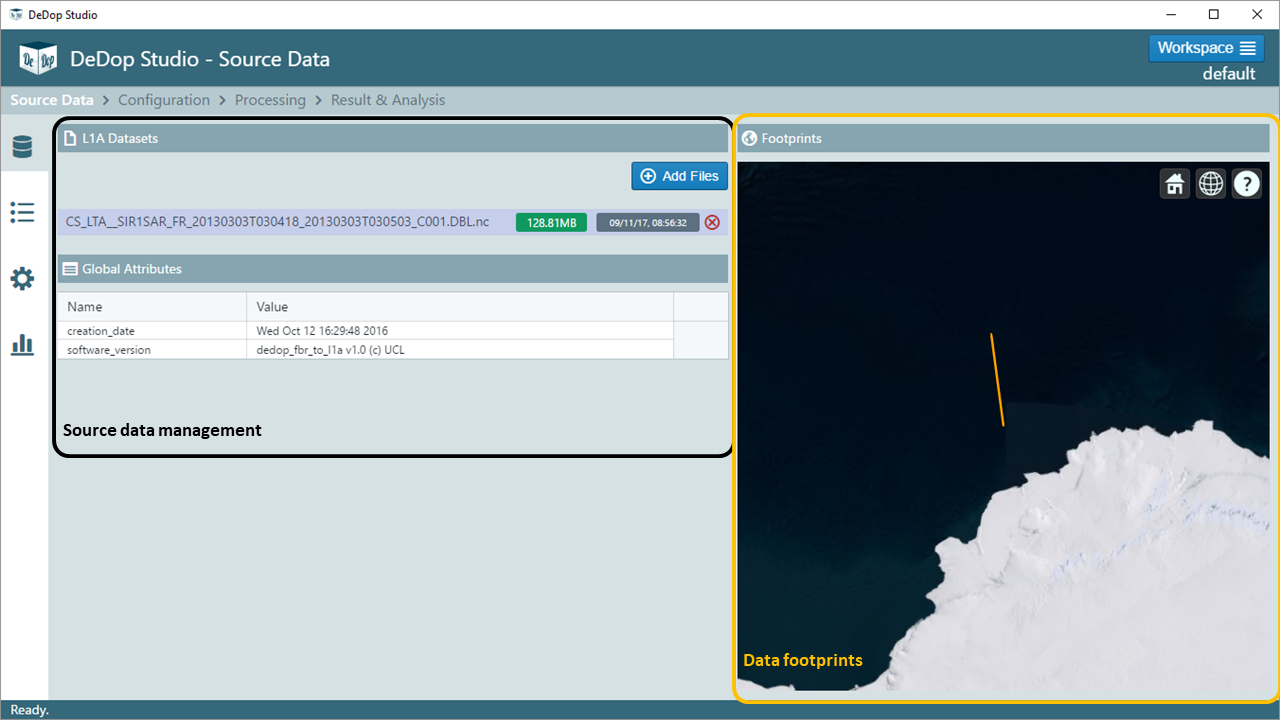
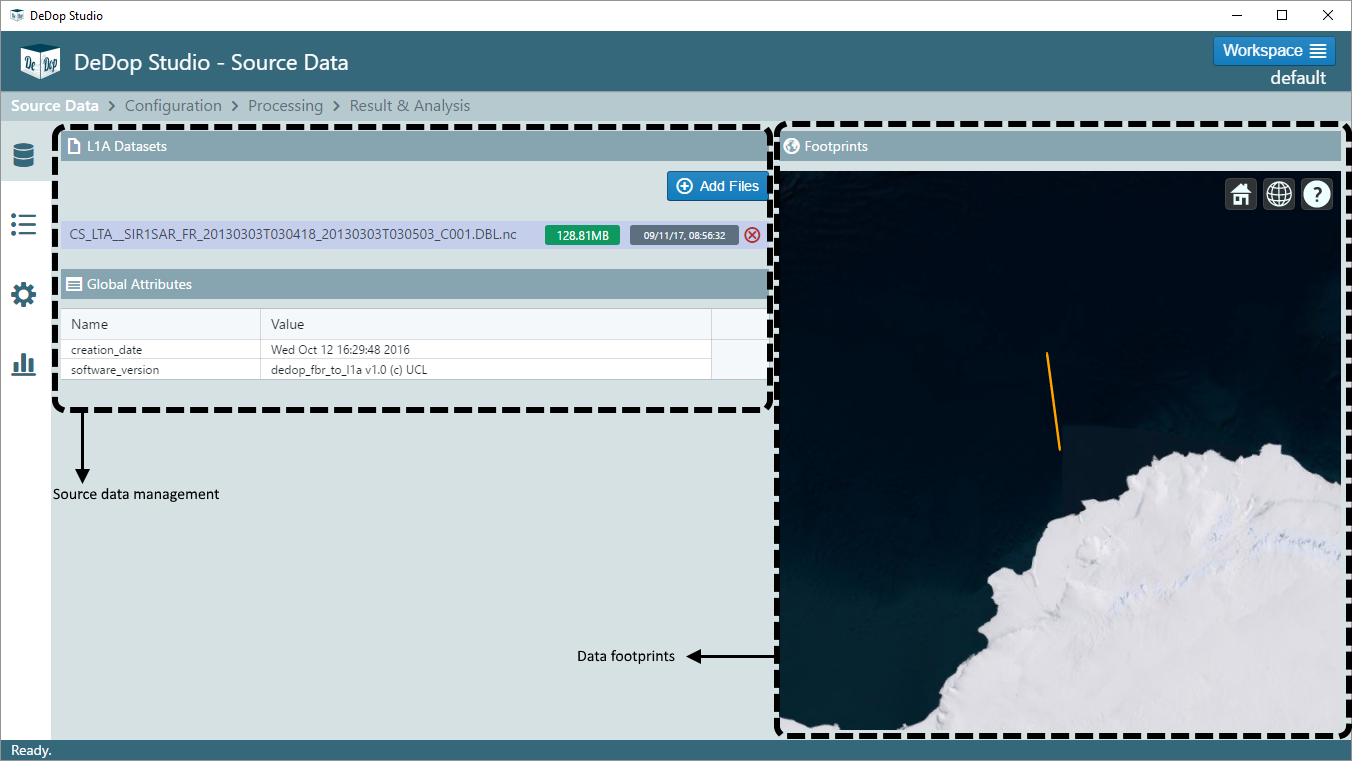
update docs (user manual on dedop shell and dedop studio)

Changed region(s): [[0.0312, 0.1528, 1.0, 0.9778]]

diff --git a/docs/introduction.rst b/docs/introduction.rst
@@ -25,14 +25,14 @@ However, this approach is no longer appropriate for SAR Altimetry or Altimeter D
 Processing. The links between the Level 1B processing and the Level 2 processing, particularly the
 retracking of the waveforms, are very strong. For instance, different ways of performing the delay
 Doppler processing lead to different L1B waveform shapes,and peculiarities of the *Delay Doppler
-Processor* (DDP) have a noticeable effect on the L1B waveform leading to changes in the
+Processor* (DeDop processor) have a noticeable effect on the L1B waveform leading to changes in the
 geophysical retrievals.
 
 Due to this strong link between the Level 1b process ing and the final geophysical retrievals, it is
 important that the SAR Altimetry scientific community gains a much better understanding the Level
 1B processor, and is involved in new developments. For various reasons (e.g. the novelty of the
 processing, previous unavailability of adequate documentation, restricted availability of the low
-levels of data), this understanding is currently limited, both in general terms of what a DDP is, and
+levels of data), this understanding is currently limited, both in general terms of what a DeDop processor is, and
 in the different options chosen for the different missions.
 
 The |DeDop3| Project
@@ -40,15 +40,15 @@ The |DeDop3| Project
 
 The |DeDop3| project provides the scientific community with the means to understand and use low
 level altimetry data and to become involved in how these data are processed. This is achieved by
-providing them with a Fully Adaptable and Configurable DDP and a friendly user interface (a tool)
-to help them to interact with the DDP. The proposed DDP has different options from which the user
+providing them with a Fully Adaptable and Configurable DeDop and a friendly user interface (a tool)
+to help them to interact with DeDop processor. The proposed DeDop has different options from which the user
 will be able to choose according to their particular field of interest. Examples of the new options
 are: surface focusing (particularly relevant for special targets like coasts, rivers or lakes), any kind
 of weighting along and across track, different azimuth processing approaches, stack masking, new
 stacking algorithms (e.g. ACDC), Sigma-0 at stack level, etc.
 
-The DDP is open source and available in such a way that users are able
-to explore the code, understand its possibilities, and to modify it to their own needs.
+DeDop is open source and available in such a way that users are able to explore the code, understand its possibilities,
+and to modify it to their own needs.
 
 The tool also comes with various demonstrations of new features that can be investigated and
 retrieved when using these lower data processing levels. They are presented as successful case
@@ -57,16 +57,22 @@ studies.
 The DeDop Tool
 ==============
 
-The DeDop tool comprises both a command-line interface, the *Dedop Shell* and a graphical user interface,
-the *Dedop Studio*. The tool's primary goal is the make it easy to configure and run the DDP and to provide
+The DeDop tool comprises both a command-line interface, the *DeDop Shell*, and a graphical user interface,
+the *DeDop Studio*. The tool's primary goal is to make it easy to configure and run and to provide
 a number of analysis functions to inspect and compare the L1B results. The tool’s target users are community
-scientists wishing to learn, modify or extend the DDP configuration and/or code and then use the tool for
-comparisons between outputs of varying configurations generated by the DDP.
+scientists wishing to learn, modify or extend the DeDop processor configuration and/or code and then use the tool for
+comparisons between outputs of varying configurations generated by the DeDop.
 
-.. figure:: images/context.png
+.. _dedop_diagram:
+.. figure:: images/dedop-diagram.png
    :figwidth: 70 %
    :align: center
 
-   The DDP and the Tool context
+   The DeDop and the Tool context
 
+The image above shows two components: DeDop Studio and DeDop Core. DeDop Core consists of **DeDop processor**, **DeDop Shell**,
+and **DeDop webapi**. With DeDop Shell, users will be able to do all the operations using a command-line interface. Information
+on how to use DeDop Shell can be found in :doc:`user_manual/um_shell`. With DeDop Studio, users can also perform the same
+operations as in DeDop Shell (modifies & writes config, read L1A data, etc.) and in the end it invokes DeDop processor in
+DeDop Core via the webapi interface. More information about DeDop Studio can be found in :doc:`user_manual/um_studio`.
 

diff --git a/docs/user_manual/um_setup.rst b/docs/user_manual/um_setup.rst
@@ -8,10 +8,10 @@ DeDop Shell Installation
 From Binaries
 --------------
 
-DeDop is distributed as pre-compiled binaries which can be retrieved from `here <https://github.com/DeDop/dedop/releases/tag/v1.2.0>`_.
+DeDop is distributed as pre-compiled binaries which can be retrieved from `here <https://github.com/DeDop/dedop-core/releases/tag/v1.2.0>`_.
 For the windows Windows platforms there is a dedicated installer executable. For Mac OS and Unixes a ZIP file is provided.
 All platform distributions have a bundled Python interpreter, that's also the reason why they are quite large in size
-(roughly 300 megabytes).
+(roughly 300 megabytes). As mentioned before, this package also contains DeDop processor and DeDop webapi.
 
 After installing (on Windows) / unpacking (on Unixes) you find an executable file named `dedop-shell` in the
 installation's root directory. Running it brings up the *DeDop Shell*.
@@ -54,4 +54,62 @@ After installing from source, you should be able to run the DeDop Shell, try::
 DeDop Studio Installation
 ==========================
 
-Information can be found in `this page <https://github.com/DeDop/dedop-studio>`_.
+As illustrated in :ref:`this diagram<dedop_diagram>`, DeDop studio is dependent on DeDop core in performing any processing duties.
+For this reason, make sure that DeDop core has been installed in your computer before performing DeDop studio installation.
+Failure to do that will result in the DeDop studio failing to startup.
+
+From Binaries
+--------------
+
+DeDop is distributed as pre-compiled binaries which can be retrieved from
+`DeDop Studio release page <https://github.com/DeDop/dedop-studio/releases/tag/v1.2.0>`_.
+For the windows Windows platforms there is an easy one-click installer executable. For Mac OS, the installer is available
+as dmg file and zip file, while for Unix, the installer is availble as tar.gz, zip, and AppImage files. Please make sure that
+you have already installed DeDop-core before starting the DeDop-studio installation. More information about this can be found
+:ref:`in this section <studio_intro>`.
+
+Please note that in Windows, you may need to accept the warning at the beginning in regards to installing a third-party software.
+Similarly in MacOS, you may need to enable an installation of third-party software: More information about it can be found
+`in Gatekeeper page <https://support.apple.com/en-us/HT202491>`_.
+
+After the installation has been completed, you will find an executable file named `DeDop-Studio`, which you can search using
+start menu (Windows) or Spotlight (MacOS).
+
+From Source
+------------
+
+Pre-requisites
+---------------
+- nodejs v6.9.1
+- npm v3.10.8
+- git
+- dedop-core
+
+How-to-install
+---------------
+
+First of all, clone the dedop-core repository::
+
+    git clone https://github.com/DeDop/dedop-studio.git
+
+Do npm install::
+
+    cd dedop-studio
+    npm install
+
+Create a dedop-config.js and put the location of ``dedop-webapi.exe`` (more information about the can be found in ``dedop-config.template.js``::
+
+    webAPIConfig: {
+      command: "C:\\Miniconda3\\envs\\pycharm-dedop\\Scripts\\dedop-webapi.exe",
+      servicePort: 2999,
+      processOptions: {}
+    }
+
+Compile::
+
+  npm run compile
+
+Start::
+
+  npm start
+

diff --git a/docs/user_manual/um_studio.rst b/docs/user_manual/um_studio.rst
@@ -2,18 +2,23 @@
 DeDop Studio
 =============
 
+.. _studio_intro:
+
 DeDop Studio is a desktop application with a primary aim of providing a user-friendly experience for processing L1A files.
 It was designed based on the already-existing :doc:`um_shell`, so the behavior is almost the same with its command line counterpart.
+In order to be able to use DeDop Studio, one must have a specific version of DeDop Core installed. The table below shows
+the dependency information between DeDop Core and DeDop Studio.
 
-.. figure:: ../_static/figures/dedop-studio.png
-   :scale: 75%
-   :align: center
+=============  =========================
+DeDop Studio    ...depends on DeDop Core
+=============  =========================
+   v1.2.0            v1.2.0
+   v1.1.0            v1.1.0
+   v1.0.0            v1.0.0
+=============  =========================
 
-DeDop Studio was designed at a window size of 1366 x 768, which is at the moment the most common laptop screen resolution.
-This means that all the component placements were decided based on what looks best at 1366 x 768 resolution. However,
-using other window sizes should not affect your experience greatly.
 
-The image above shows the first screen of DeDop Studio. At the top there is a screen title that will be updated once the
+The image below shows the first screen of DeDop Studio. At the top there is a screen title that will be updated once the
 user navigates to another screen. On the right side of this top section, there is a section for **Workspace management**.
 This is the area where user can perform workspace-related operations, such as adding, removing, copying, renaming, changing,
 and deleting a workspace. Right under the screen title, there are breadcrumbs showing the available four screens of this
@@ -22,6 +27,10 @@ components act as the **navigator** of the application, to give the user an idea
 and also in the workflow. Both the workspace management and the navigator are components that are static, which means they
 will be visible on all the screens. **Functionality panels**, on the other hand, is the main area of the application where
 users can interact and it will change depending on which screen is selected.
+
+.. figure:: ../_static/figures/dedop-studio.png
+   :scale: 75%
+   :align: center
 
 .. _workspace_manag_studio:
 

diff --git a/docs/quickstart.rst b/docs/quickstart.rst
@@ -15,7 +15,7 @@ This chapter is a tutorial for users new to the DeDop Shell.
 Before you start
 ================
 
-If you haven't installed DeDop yet, please refer to :doc:`installation`.
+If you haven't installed DeDop yet, please refer to :doc:`user_manual/um_setup`.
 
 During installation, a new menu entry or desktop shortcut named **DeDop Shell** should have been created.
 If you click it, a new terminal window should open up. If you can't see a menu entry nor a desktop shortcut
@@ -59,7 +59,7 @@ Now run the processor with default settings::
 If the command succeeded, the L1B output files can be found in ``workspaces/default/configs/default/outputs``,
 which is by default located in the DeDop user data directory. On Unixes and Darwin (OS) this directory
 is ``~/.dedop`` while on Windows it is ``C:/Users/<username>/.dedop``. The location of your workspaces directory
-can be changed by configuration. Please refer to the :doc:`manual`.
+can be changed by configuration. Please refer to the :ref:`tool_config_parameters`.
 
 If the processor run was successful you can inspect the generated L1B file::
 

diff --git a/docs/user_manual/um_shell.rst b/docs/user_manual/um_shell.rst
@@ -5,13 +5,8 @@ DeDop Shell
 Overview
 ========
 
-The DeDop tool set currently comprises the *DeDop Shell* - a command-line interface to the
-Delay Doppler Processor (DDP) - and *DeDop Studio* - a graphical user interface to the
-Delay Doppler Processor (DDP). In this section, you will find the manual for DeDop Shell.
-For the manual of DeDop Studio go to :doc:`um_studio`.
-
 The DeDop Shell comprises a single command-line executable, which is called ``dedop`` and is available after installing
-the DeDop Shell on your computer. See section :doc:`um_setup` for more information.
+the DeDop Shell on your computer. See section :doc:`um_setup` for more information on how to initialize DeDop Shell.
 
 
 .. _workspace_manag:

diff --git a/docs/faq.rst b/docs/faq.rst
@@ -1,0 +1,15 @@
+==========================
+Frequently Asked Questions
+==========================
+
+Why does the layout of DeDop Studio looks different in my computer?
+====================================================================
+
+DeDop Studio was designed at a window size of 1366 x 768, which is at the moment the most common laptop screen resolution.
+This means that all the component placements were decided based on what looks best at 1366 x 768 resolution. Panel placements
+may be different in lower resolution, but they should all still be fully functional. Please drop us a message if your
+experience is greatly affected by this.
+
+
+
+

diff --git a/docs/index.rst b/docs/index.rst
@@ -7,9 +7,6 @@
 ===========================
 
 
-.. warning::  This user manual for the DeDop software is still under construction while we are developing towards the first release of the DeDop software.
-
-
 Contents:
 
 .. toctree::
@@ -18,6 +15,7 @@ Contents:
    introduction
    quickstart
    user_manual
+   faq
    api_reference
 
 
